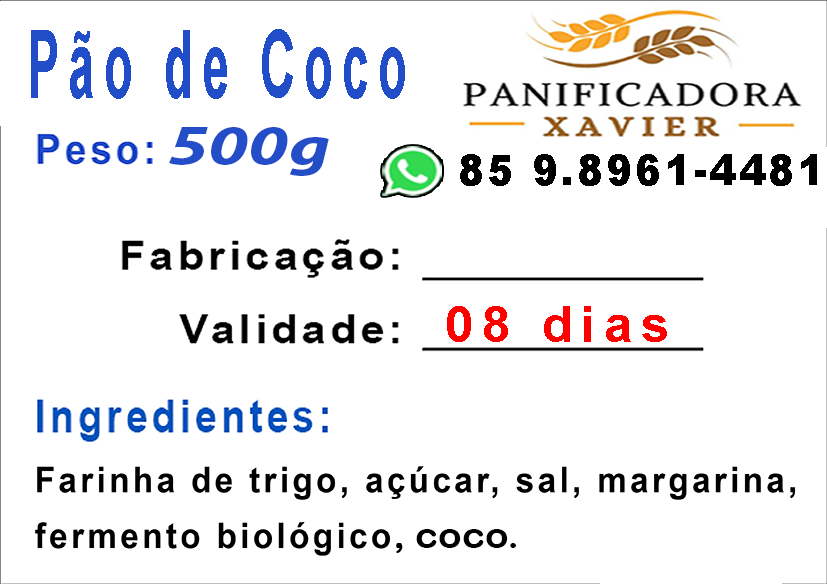
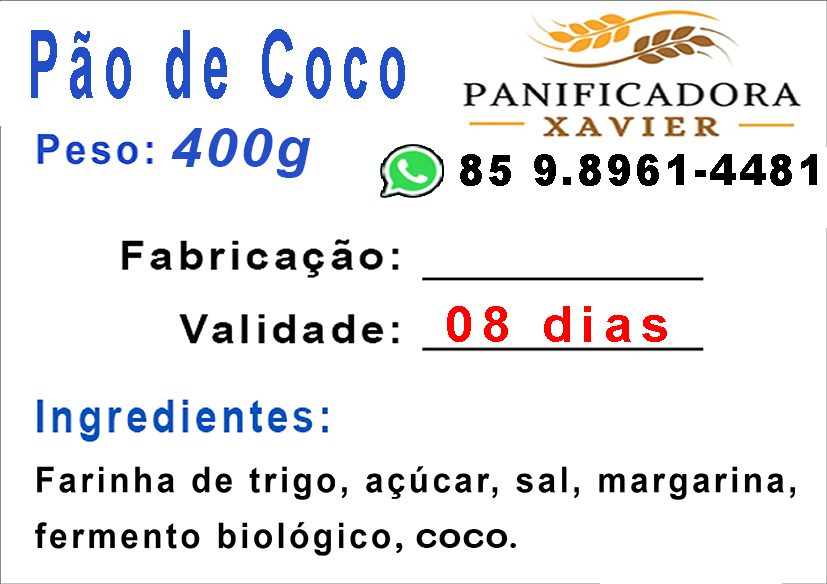
atualização de produto

Changed region(s): [[0.2116, 0.2158, 0.393, 0.3082]]

diff --git a/index.html b/index.html
@@ -58,7 +58,7 @@
                                             <option value="rosca-3">Rosca Mole - 250g</option>
                                             <option value="pao-bola">Pão Bola - 300g</option>
                                             <option value="pao-2">Pão de Coco - 250g</option>
-                                            <option value="pao-4">Pão de Coco - 500g</option>
+                                            <option value="pao-4">Pão de Coco - 400g</option>
                                         </select>
                                     </div>
                                     <!-- Data -->
